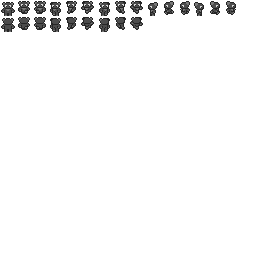
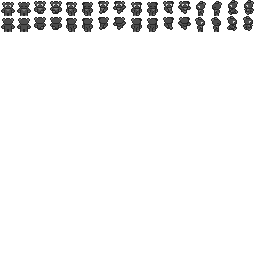
sprite: minor animation bugfix
player animations have a little blink + minor sprite changes

Changed region(s): [[0.0625, 0.0, 1.0, 0.125]]

diff --git a/libcore/src/sprite.c b/libcore/src/sprite.c
@@ -90,10 +90,16 @@ static void playAnimation(tAbelS_animationStates *states, int animationID)
     states->animationID = animationID;
     animation->animationFrame = 0;
 
+    if (AbelM_countVector(animation->frames) == 0)
+        return; /* no frames in animation */
+
     /* if the timer is NOT running, start our timer (if we have more than 1 frame) */
-    if (states->animationTask == NULL && AbelM_countVector(animation->frames) > 1) {
+    if (states->animationTask == NULL) {
         /* start the timer at the *next* frame */
         states->animationTask = AbelT_newTask(animationTask(0, (void *)states), animationTask, (void *)states);
+    } else {
+        /* reschedule task */
+        AbelT_scheduleTask(states->animationTask, animation->frames[animation->animationFrame].delay);
     }
 }
 
